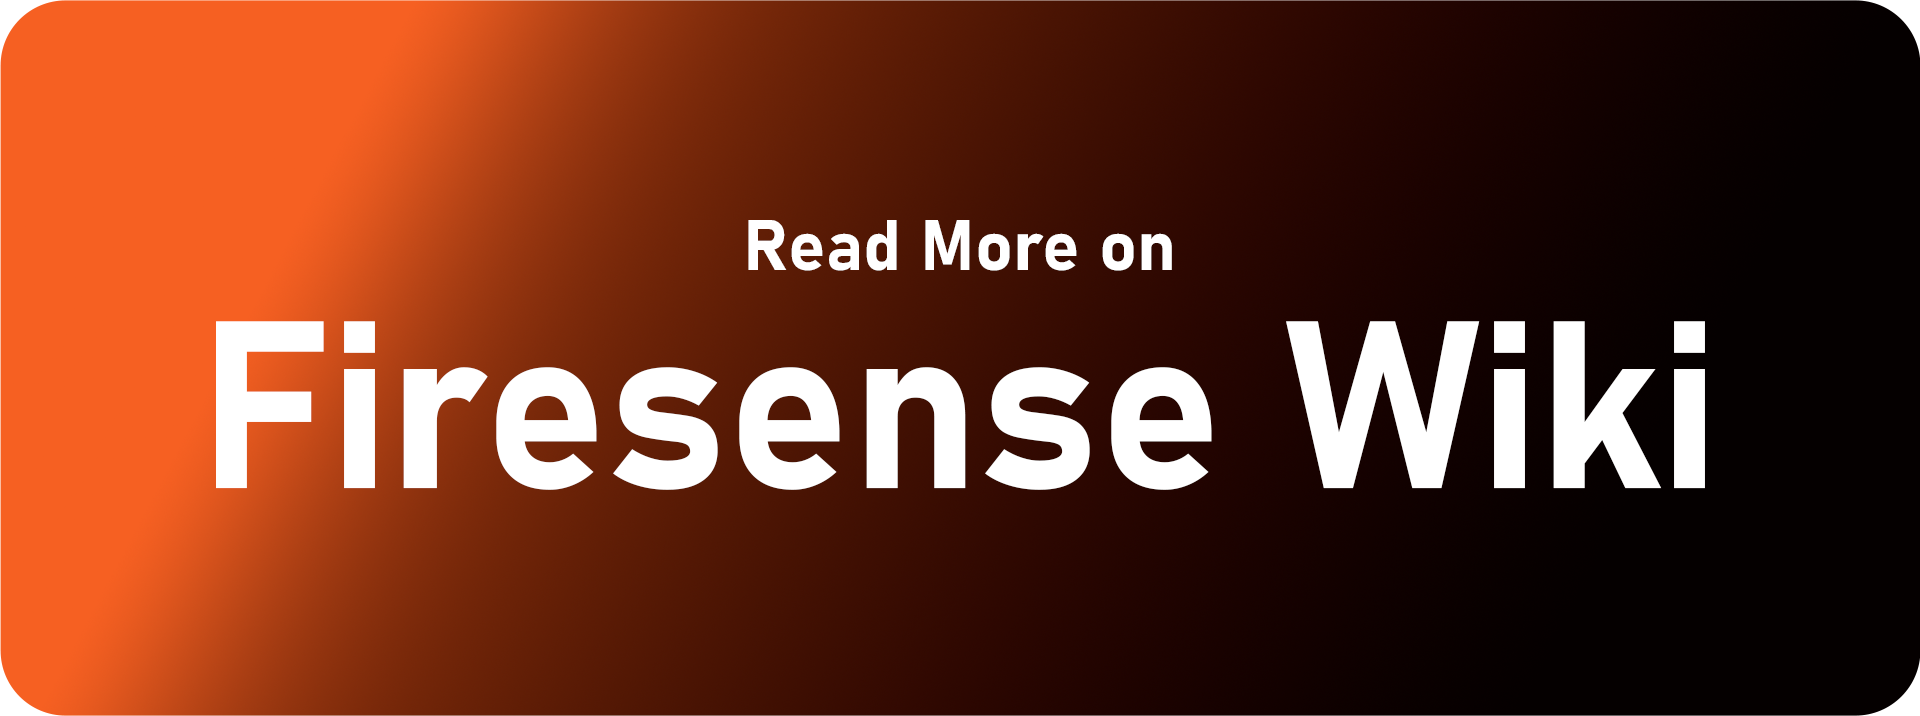
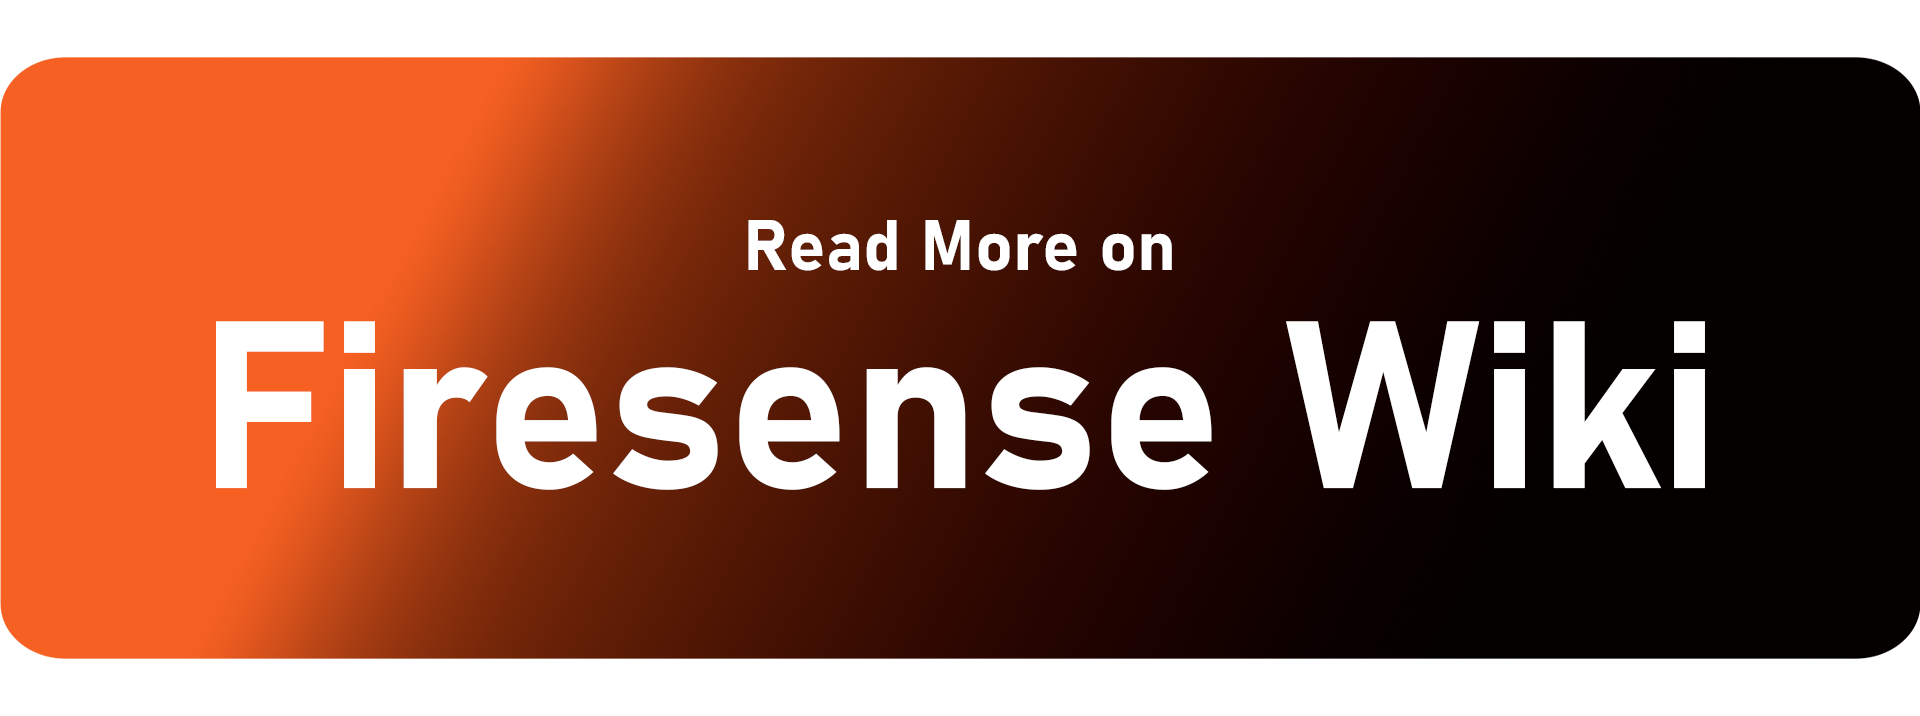
readme correction

Changed region(s): [[0.0, 0.0, 1.0, 1.0]]

diff --git a/Readme.md b/Readme.md
@@ -26,7 +26,9 @@ This project focuses on creating a wireless mesh network for early wildfire dete
 - **Reliability**: Ensures the network can function even if some nodes are temporarily out of communication range.
 
 <br>
+<p align="center">
 <a href="https://github.com/chathura-de-silva/Firesense/wiki">
 <img src="./Docs/Readme Assets/ReadMoreButton.png" a
-style="display: block; margin: 0 auto; width: 60%; height: auto;" alt="Wiki Button" 
+style="width: 60%; height: auto;" alt="Wiki Button" 
 ></a>
+</p>
